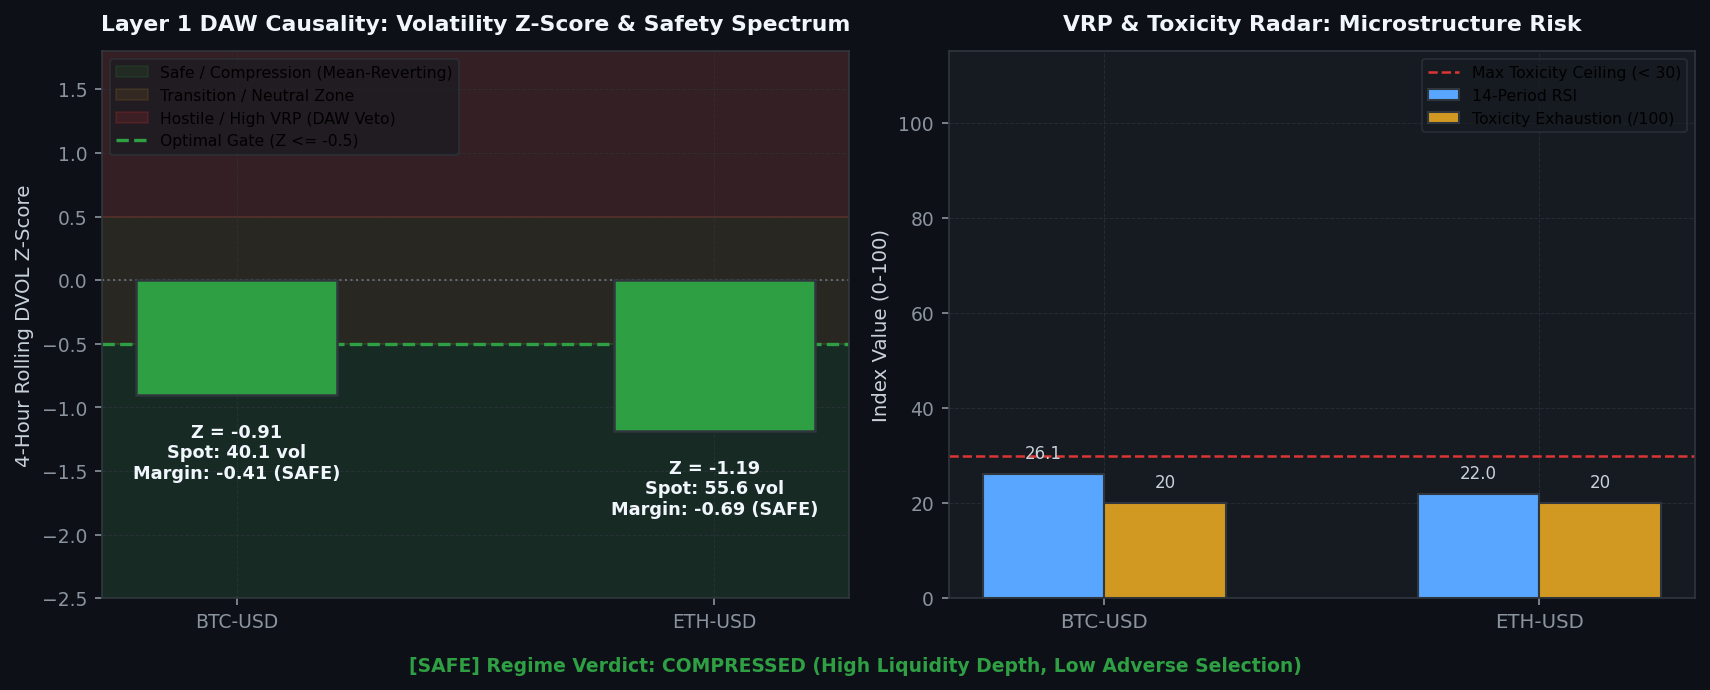
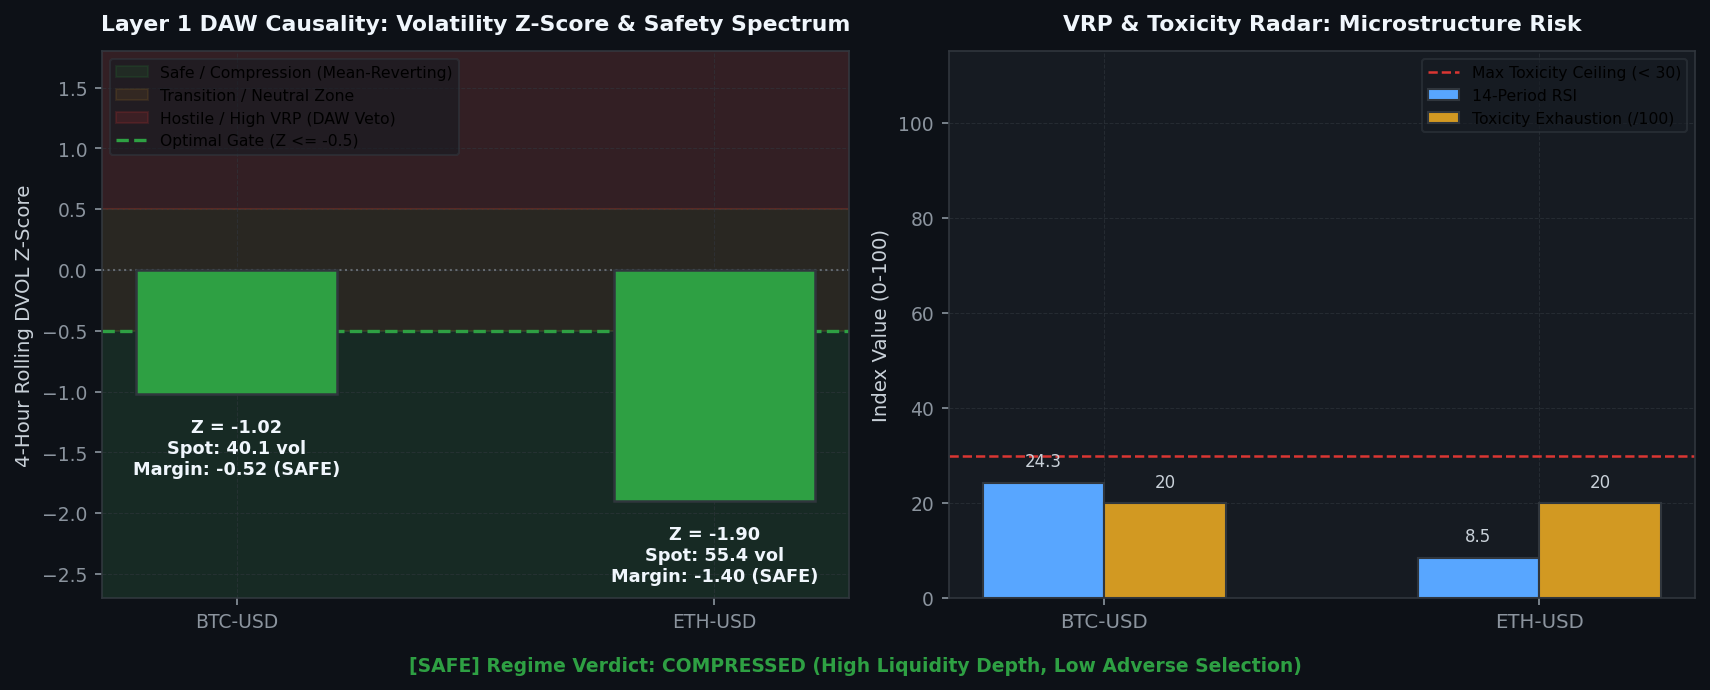
[coinbase] Hourly Status & Visual Intelligence Update: 2026-08-26 19:59:06

diff --git a/coinbase/data/hourly_status_report.md b/coinbase/data/hourly_status_report.md
@@ -3,7 +3,7 @@ layout: default
 ---
 
 # 🛡 Unified Trading System Hourly Status & Visual Intelligence
-> **Report Generated**: `2026-08-26 07:40:39 PM PDT (2026-08-27 02:40:39 UTC)`  
+> **Report Generated**: `2026-08-26 07:58:49 PM PDT (2026-08-27 02:58:49 UTC)`  
 > **System Health**: **🟡 DEGRADED / RESTRICTED** | **Win Rate**: `0.0%` | **Completed Trades**: `0`
 
 
@@ -15,13 +15,13 @@ Real-time Deribit implied volatility (DVOL) proxy tracking against mathematicall
 
 | Symbol | Proxy Oracle | Live Z-Score | Optimal Limit (YSP) | Safety Margin | Live VRP | Optimal VRP (YSP) | DAW Safety Verdict |
 | :--- | :--- | :--- | :--- | :--- | :--- | :--- | :--- |
-| `AVAX-USD` | DVOL_BTC | **-0.91** | **-0.50** | **-0.41** | **+9.64** | 5.0 | 🔴 DAW VETOED |
-| `ETH-USD` | DVOL_ETH | **-1.19** | **-0.50** | **-0.69** | **+24.76** | 5.0 | 🔴 DAW VETOED |
-| `ADA-USD` | DVOL_BTC | **-0.91** | **-0.50** | **-0.41** | **+9.35** | 5.0 | 🔴 DAW VETOED |
-| `DOGE-USD` | DVOL_BTC | **-0.91** | **-0.50** | **-0.41** | **+9.33** | 5.0 | 🔴 DAW VETOED |
-| `BTC-USD` | DVOL_BTC | **-0.91** | **-0.50** | **-0.41** | **+9.33** | 5.0 | 🔴 DAW VETOED |
-| `LINK-USD` | DVOL_BTC | **-0.91** | **-0.50** | **-0.41** | **+9.33** | 5.0 | 🔴 DAW VETOED |
-| `SOL-USD` | DVOL_BTC | **-0.91** | **-0.50** | **-0.41** | **+9.33** | 5.0 | 🔴 DAW VETOED |
+| `AVAX-USD` | DVOL_BTC | **-1.02** | **-0.50** | **-0.52** | **+9.64** | 5.0 | 🔴 DAW VETOED |
+| `ETH-USD` | DVOL_ETH | **-1.90** | **-0.50** | **-1.40** | **+24.51** | 5.0 | 🔴 DAW VETOED |
+| `ADA-USD` | DVOL_BTC | **-1.02** | **-0.50** | **-0.52** | **+9.19** | 5.0 | 🔴 DAW VETOED |
+| `DOGE-USD` | DVOL_BTC | **-1.02** | **-0.50** | **-0.52** | **+9.21** | 5.0 | 🔴 DAW VETOED |
+| `BTC-USD` | DVOL_BTC | **-1.02** | **-0.50** | **-0.52** | **+9.21** | 5.0 | 🔴 DAW VETOED |
+| `LINK-USD` | DVOL_BTC | **-1.02** | **-0.50** | **-0.52** | **+9.19** | 5.0 | 🔴 DAW VETOED |
+| `SOL-USD` | DVOL_BTC | **-1.02** | **-0.50** | **-0.52** | **+9.21** | 5.0 | 🔴 DAW VETOED |
 
 
 
@@ -37,16 +37,16 @@ We hereby certify that the mission-critical algorithmic data assets uploaded by 
 
 | Status | Data Asset | Freshness / State | Details / Timestamp |
 | :---: | :--- | :--- | :--- |
-| ✅ | **Go-List JSON** | Fresh (8.94h old) | 08-26 10:44 |
-| ✅ | **TimesFM Forecasts** | Fresh (3.65h old) | 08-26 16:02 |
-| ❌ | **Holding Times config** | STALE! (130.6h old) | Limit 72.7h |
-| ✅ | **BTC DVOL Cache** | Fresh (0.00h old) | 08-26 19:40 |
-| ✅ | **ETH DVOL Cache** | Fresh (0.00h old) | 08-26 19:40 |
-| ✅ | **Live Trading Telemetry** | Fresh (0.00h old) | 08-26 19:40 |
+| ✅ | **Go-List JSON** | Fresh (9.24h old) | 08-26 10:44 |
+| ✅ | **TimesFM Forecasts** | Fresh (3.95h old) | 08-26 16:02 |
+| ❌ | **Holding Times config** | STALE! (130.9h old) | Limit 73.0h |
+| ✅ | **BTC DVOL Cache** | Fresh (0.01h old) | 08-26 19:58 |
+| ✅ | **ETH DVOL Cache** | Fresh (0.01h old) | 08-26 19:58 |
+| ✅ | **Live Trading Telemetry** | Fresh (0.00h old) | 08-26 19:58 |
 
 <br>
 
-> **Utilization Certification**: ✅ **CERTIFIED.** The Guardian Watchdog is ONLINE and EC2 traders are actively querying the freshest MLOps data artifacts (Found 2012 recent read events).
+> **Utilization Certification**: ✅ **CERTIFIED.** The Guardian Watchdog is ONLINE and EC2 traders are actively querying the freshest MLOps data artifacts (Found 2071 recent read events).
 
 
 ---
@@ -55,7 +55,7 @@ Layer-by-layer tick evaluation waterfall and asset-specific performance tracking
 
 | Funnel Filter Layer | Total Rejections | % of Rejections |
 | :--- | :--- | :--- |
-| Tier 1: Macro Volatility Tensor Gate (Omega_macro) | `8,166` | **100.0%** |
+| Tier 1: Macro Volatility Tensor Gate (Omega_macro) | `8,439` | **100.0%** |
 | Tier 2: Unified Transport & Directional Engine | `0` | **0.0%** |
 | Tier 3: Continuous Hawkes-SFGK Pricer (HAS-Pricer) | `0` | **0.0%** |
 | System: Asset Cooldown Active | `0` | **0.0%** |
@@ -106,14 +106,14 @@ Live balance sheet and open maker liquidity positions from Coinbase CDP.
 ## 4. 🤖 Foundation Model MLOps & Pipeline Orchestration
 Weekly Algorithmic Mega Cap selection, Zero-shot multi-step forward return forecasts, and VSTEF parameter grid search status.
 
-- **TimesFM Forecast DB**: 🟢 Updated 3.6h ago (2026-08-26 04:02 PM PDT)
+- **TimesFM Forecast DB**: 🟢 Updated 3.9h ago (2026-08-26 04:02 PM PDT)
 - **Last Weekly VSTEF Optimization**: `2026-08-05 09:22:38 AM PDT`
-- **Next Scheduled VSTEF Run**: `2026-08-30 07:00:00 PM PDT (Monday 02:00 UTC)` (Countdown: **95.3h (3d 23h 19m)**)
+- **Next Scheduled VSTEF Run**: `2026-08-30 07:00:00 PM PDT (Monday 02:00 UTC)` (Countdown: **95.0h (3d 23h 1m)**)
 - **Promoted Parameter Gates**: $Z_{DVOL} \le -0.5$ | Holding Horizon $= 12\text{h}$
 
 ### Algorithmic Mega Cap Selection
 - **Last Run (Confirmation)**: `2026-08-26 10:44:36 AM PDT`
-- **Next Scheduled Run**: `2026-08-30 06:00:00 PM PDT (Monday 01:00 UTC)` (Countdown: **94.3h (3d 22h 19m)**)
+- **Next Scheduled Run**: `2026-08-30 06:00:00 PM PDT (Monday 01:00 UTC)` (Countdown: **94.0h (3d 22h 0m)**)
 - **Selected Mega Cap Universe**: `BTC, BCH, AVAX, ETH, ALGO, ADA, LTC, DOGE, AAVE, LINK, DOT, HBAR`
 
 
@@ -127,8 +127,8 @@ Visualizing the impact of the VSTEF (Volatility-Synchronized Stop-Tightening Exe
 ## 5. 🖥 Multi-Node Infrastructure & Watchdog Matrix
 ```text
 ================================================================================
-   🛡  SFGK FUNNEL GUARDIAN WATCHDOG (HFT ONLY) |  02:40:39 AM
-   CPU:  10.1%  |  MEM:   6.1% (14.5GB / 15.4GB Free)
+   🛡  SFGK FUNNEL GUARDIAN WATCHDOG (HFT ONLY) |  02:58:49 AM
+   CPU:  13.8%  |  MEM:   6.5% (14.4GB / 15.4GB Free)
 ================================================================================
 SERVICE              | PID      | STATUS          | RESTARTS | INFO
 --------------------------------------------------------------------------------
@@ -136,11 +136,11 @@ L3 Consumer          | 1021853  | RUNNING         | -        | Continuous Websoc
 MAO Daemon           | 1021965  | RUNNING         | -        | Oracle Yield Analysis
 U/U Farmer           | 1021967  | RUNNING         | -        | Volume Farmer
 Trader AVAX-USD      | 1039581  | RUNNING         | 55       | Evaluating Funnel/Polling Order
-Trader ETH-USD       | 1063862  | RUNNING         | 120      | Evaluating Funnel/Polling Order
-Trader ADA-USD       | 1063789  | COOL-DOWN       | 105      | Next run in 14.8s
-Trader DOGE-USD      | 1063645  | COOL-DOWN       | 135      | Next run in 4.4s
-Trader BTC-USD       | 1063646  | COOL-DOWN       | 137      | Next run in 4.4s
-Trader LINK-USD      | 1063689  | COOL-DOWN       | 130      | Next run in 9.6s
+Trader ETH-USD       | 1078932  | COOL-DOWN       | 153      | Next run in 9.3s
+Trader ADA-USD       | 1078933  | COOL-DOWN       | 150      | Next run in 9.3s
+Trader DOGE-USD      | 1079112  | RUNNING         | 186      | Evaluating Funnel/Polling Order
+Trader BTC-USD       | 1079113  | RUNNING         | 189      | Evaluating Funnel/Polling Order
+Trader LINK-USD      | 1079105  | COOL-DOWN       | 175      | Next run in 14.5s
 ```
 
 ---

diff --git a/coinbase/data/visual_intelligence.md b/coinbase/data/visual_intelligence.md
@@ -4,7 +4,7 @@ title: Visual Intelligence Gallery
 ---
 
 # 📈 Visual Intelligence Gallery
-> **Generated:** `2026-08-26 19:40:56`
+> **Generated:** `2026-08-26 19:59:06`
 > **[Return to Main Status Report](./hourly_status_report.md)**
 
 This page visualizes the internal states, market profiles, and decision criteria of the active **3-Tier Fused Decision Engine** across all layers.
